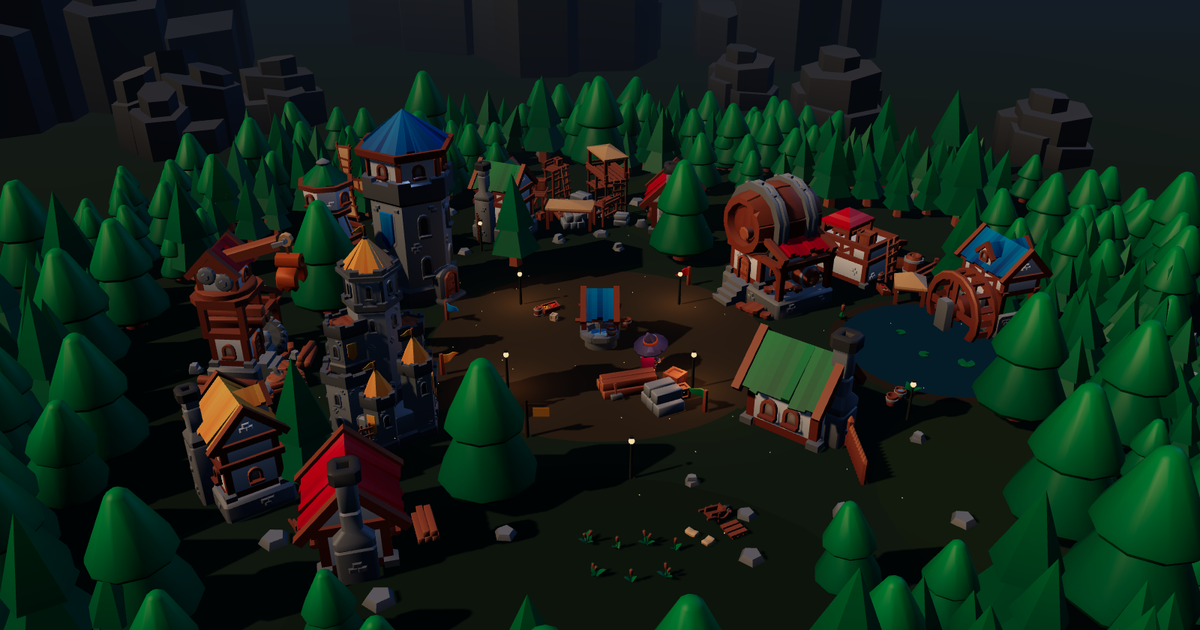
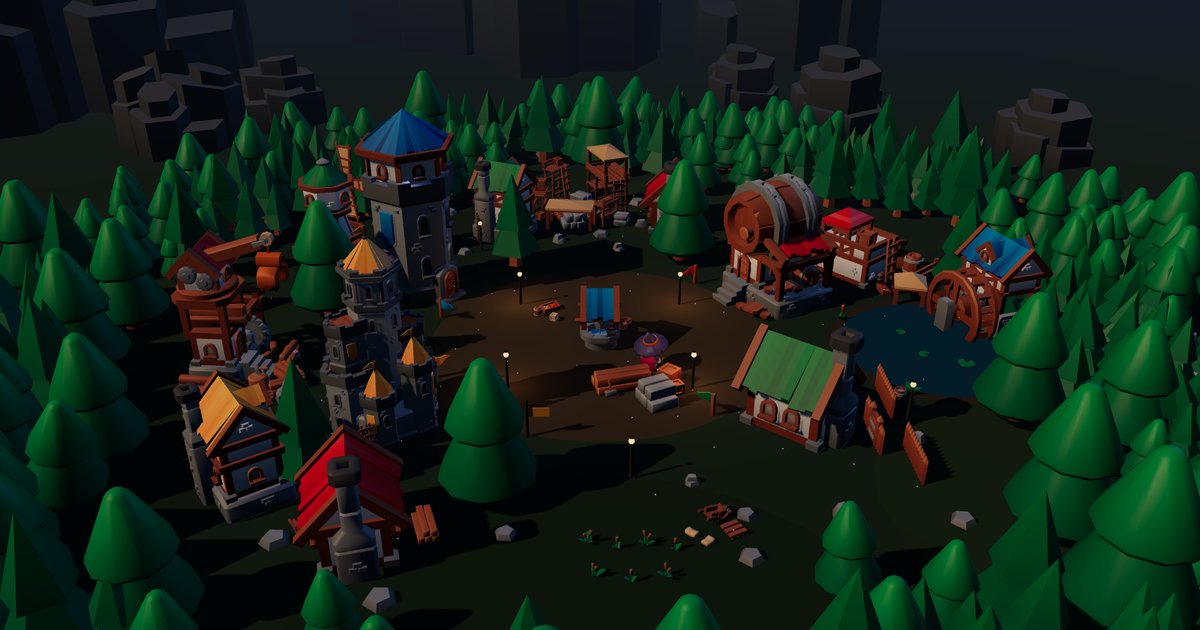
fix(vale): cancel each model's own pivot offset, so a coordinate means where it lands
The fence still cut through the cottage because the models are not centred on
their origin. Measured from the gltf position accessors: the straight fence
panels sit a full unit to -x and the gates half a unit, so a run placed at one
x was drawn 3.1 units to the side, straight through the house, with the gate
jogged 1.5 out of line with its own panels.

place() now subtracts each model's local offset, rotated the same way the model
is, so the coordinates in props.ts mean where the thing actually appears. Same
correction applied to the mills, the stage and the pennants, which were all
slightly off their stated spots.

With the coordinates finally honest: the Library's stone wall moved out to
x=-18.5, clear of the castle corner at x=-16.5, the garden fence sits in front
of the crop rows rather than through them, and the watermill keeps the position
where its wheel reads best against the pond.

diff --git a/src/islands/vale/props.ts b/src/islands/vale/props.ts
@@ -108,6 +108,29 @@ function mergeGroups(...groups: Array<Record<string, Placement[]>>): Record<stri
   return out;
 }
 
+/**
+ * Not every model is centred on its own origin. The straight fence panels are
+ * authored a whole unit to -x (they were made to line up along a hex tile edge)
+ * and the gates half a unit, so a fence run placed at one x was drawn 3.1 units
+ * to the side, through whatever stood there, with the gate jogged 1.5 out of
+ * line with its own panels. These are each model's local offset, measured from
+ * the gltf position accessors, and place() cancels them out. So a coordinate in
+ * this file means where the thing actually appears.
+ */
+const PIVOT: Record<string, [number, number]> = {
+  fence_wood_straight: [-1, 0],
+  fence_stone_straight: [-1, 0],
+  fence_wood_straight_gate: [-0.504, 0],
+  fence_stone_straight_gate: [-0.519, 0],
+  building_watermill_blue: [0, 0.248],
+  building_lumbermill_red: [-0.003, 0.205],
+  building_stage_A: [0.043, 0.095],
+  flag_red: [0, -0.11],
+  flag_blue: [0, -0.11],
+  flag_green: [0, -0.11],
+  flag_yellow: [0, -0.11],
+};
+
 function place(
   model: string,
   x: number,
@@ -116,7 +139,14 @@ function place(
   scale = B,
   y?: number,
 ): [string, Placement] {
-  return [model, { x, z, rotY, scale, y }];
+  const [ox, oz] = PIVOT[model] ?? [0, 0];
+  // Where the local offset lands once the model is turned: three rotates
+  // (ox, oz) about Y to (ox·cos + oz·sin, -ox·sin + oz·cos).
+  const cos = Math.cos(rotY);
+  const sin = Math.sin(rotY);
+  const dx = (ox * cos + oz * sin) * scale;
+  const dz = (-ox * sin + oz * cos) * scale;
+  return [model, { x: x - dx, z: z - dz, rotY, scale, y }];
 }
 
 function fromPairs(pairs: Array<[string, Placement]>): Record<string, Placement[]> {
@@ -179,7 +209,7 @@ const villagePairs: Array<[string, Placement]> = [
   place("ladder", -9.6, -16.4, 1.9, B),
 
   // The pond east, with the watermill dipping its wheel in
-  place("building_watermill_blue", 24.2, -2.6, 1.9, 5),
+  place("building_watermill_blue", 25.4, -3, 1.9, 5),
   place("bucket_water", 17.6, 6.4, 0.5, B * 1.6),
   place("bucket_empty", 16.9, 7.2, 1.4, B * 1.6),
 
@@ -212,9 +242,9 @@ const villagePairs: Array<[string, Placement]> = [
   place("fence_wood_straight", 16.6, 6.9, 0, B),
   place("fence_wood_straight_gate", 16.6, 10.47, 0, B),
   place("fence_wood_straight", 16.6, 13, 0, B),
-  place("fence_stone_straight", -16.4, 5.6, 0, B),
-  place("fence_stone_straight_gate", -16.4, 9.17, 0, B),
-  place("fence_stone_straight", -16.4, 12.74, 0, B),
+  place("fence_stone_straight", -18.5, 5.6, 0, B),
+  place("fence_stone_straight_gate", -18.5, 9.17, 0, B),
+  place("fence_stone_straight", -18.5, 12.74, 0, B),
 
   // Water plants around the pond rim
   place("waterplant_C", 15.2, 1.6, 0.4, 5.6),
@@ -253,7 +283,7 @@ export const obstacles: Obstacle[] = [
   { x: 6, z: -20, r: 2.8 },       // house, north
   { x: -7.5, z: -18.5, r: 2.8 },  // house, north west
   { x: -2, z: -22.5, r: 4.3 },    // the site where v2 gets built
-  { x: 24.2, z: -2.6, r: 3.1 },   // watermill
+  { x: 25.4, z: -3, r: 3.1 },     // watermill
   { x: POND.x, z: POND.z, r: POND.r },
   { x: 2.5, z: 6.2, r: 2.6 },     // the plaza stage
   // village trees
@@ -303,7 +333,7 @@ const treeline = scatterRing({
   // steer around them or a trunk grows through a roof.
   avoid: [
     { x: POND.x, z: POND.z, r: 12 },
-    { x: 24.2, z: -2.6, r: 10 },
+    { x: 25.4, z: -3, r: 10 },
     { x: -2, z: -22.5, r: 11 },
     { x: 2, z: 20, r: 10 },
     { x: 20, z: -12, r: 11 },
